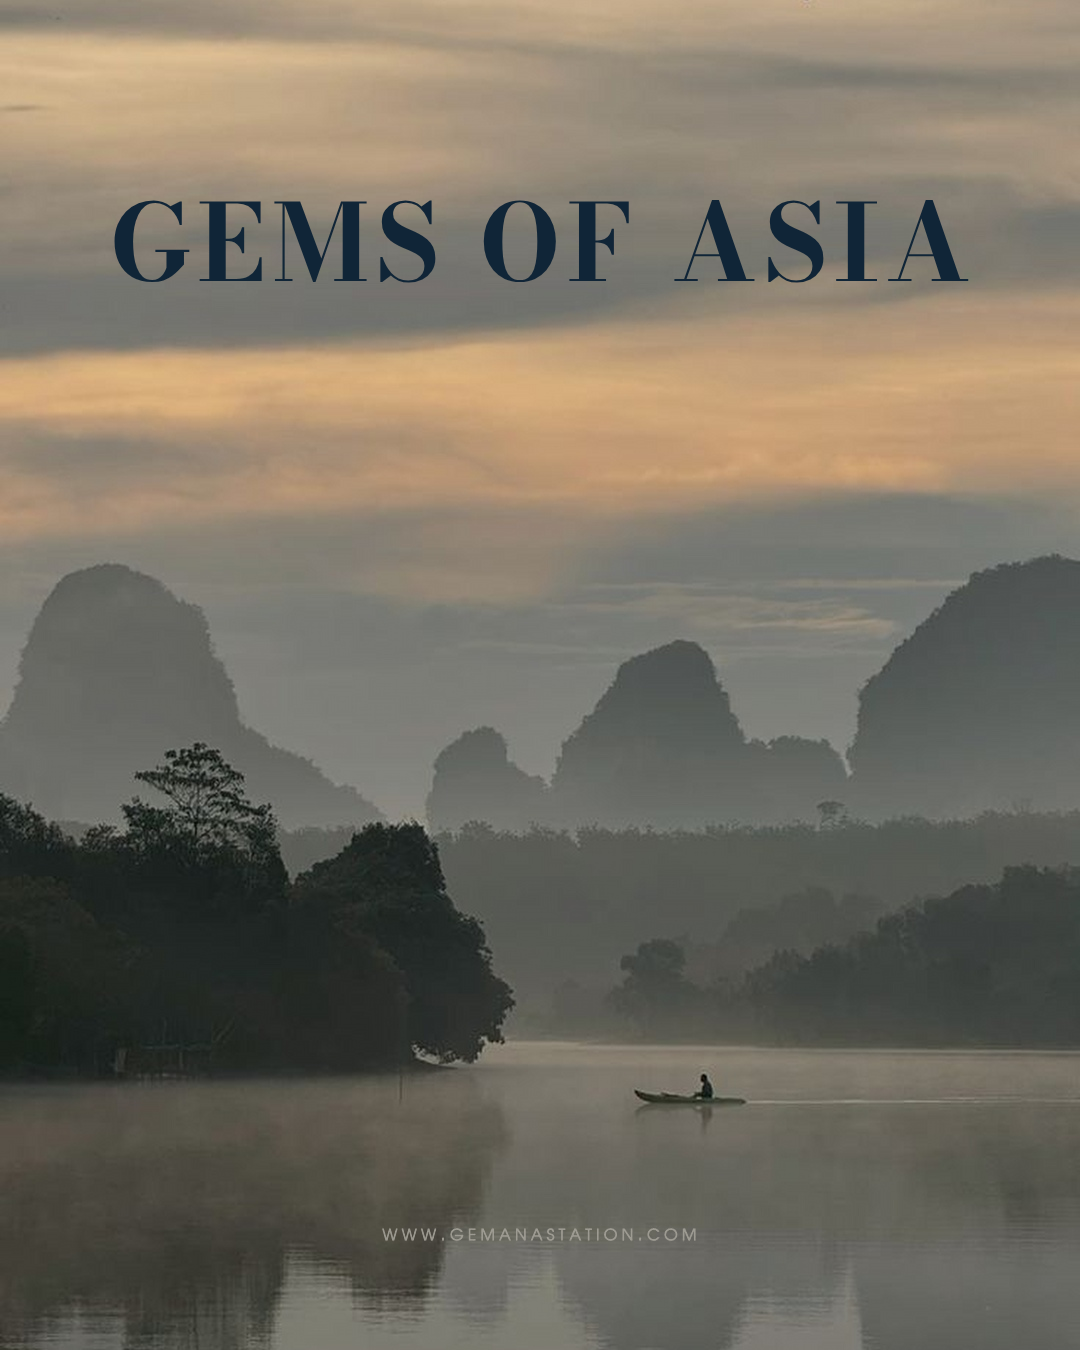
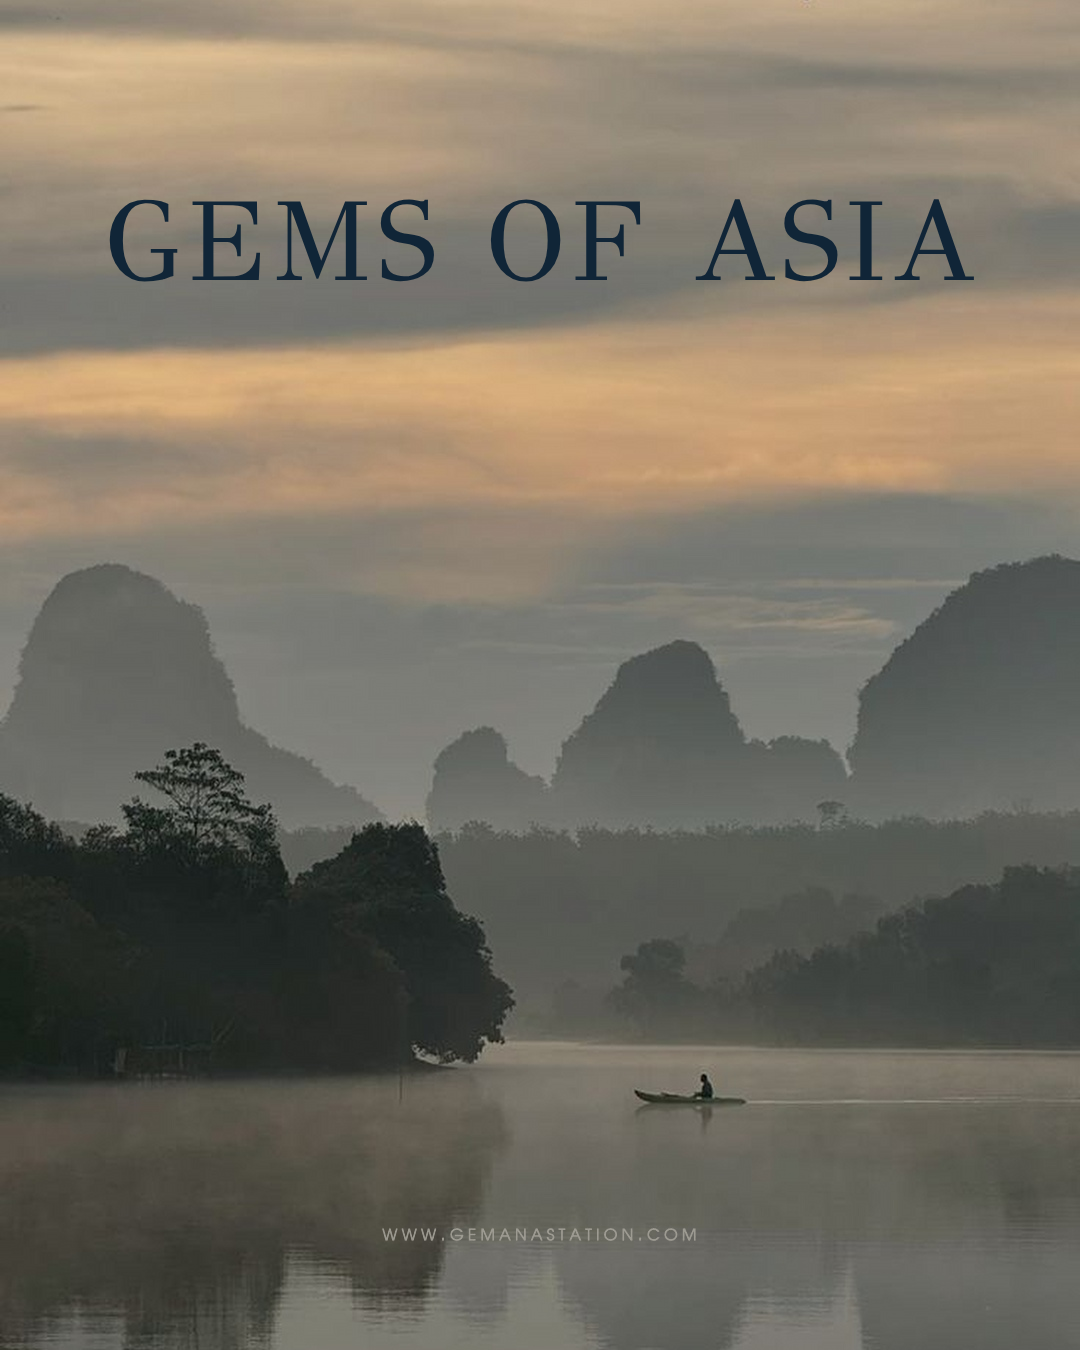
Gems of Asia: upright headings in GFS Didot (cover, map, regional titles, signature)
Claude-Session: https://claude.ai/code/session_01DPJpbdE4xE8Jg3JGMEEyZy

diff --git a/gem-anastation-reels/covers/covers.html b/gem-anastation-reels/covers/covers.html
@@ -5,14 +5,14 @@
      Export: NODE_PATH=$(npm root -g) node tools/export.mjs -->
 <html lang="en"><head><meta charset="utf-8"><title>Zine Covers</title>
 <style>
-  @font-face { font-family: "Didot Cover"; src: url(../founder/fonts/BodoniModa-Bold.ttf); font-weight: 700; }
+  @font-face { font-family: "Didot Cover"; src: url(../founder/fonts/GFSDidot-Regular.ttf); }   /* GFS Didot (regular only) */
   body { margin: 0; background: #d9d6d0; display: flex; gap: 40px; padding: 40px; width: max-content; }
   .cover { position: relative; width: 1080px; height: 1350px; overflow: hidden; }
   .cover > img.photo { display: block; width: 1080px; height: 1350px; }
   .title { position: absolute; left: 0; width: 1080px; text-align: center; white-space: nowrap;
-    top: 190px;                       /* → cap top at y = 200 */
-    font-family: "Didot Cover"; font-weight: 700; font-size: 106px; line-height: 1;
-    letter-spacing: .06em; text-indent: .06em;   /* indent balances the trailing space: optical centre */
+    top: 185px;                       /* → cap top at y = 200 */
+    font-family: "Didot Cover"; font-weight: 400; font-size: 114px; line-height: 1;
+    letter-spacing: .035em; text-indent: .035em;   /* indent balances the trailing space: optical centre */
     color: #102537; }
   .url { position: absolute; left: 375px; top: 1223px; width: 351px; height: 23px; }
 </style></head>

diff --git a/gem-anastation-reels/gems_of_asia/slide02.html b/gem-anastation-reels/gems_of_asia/slide02.html
@@ -2,6 +2,7 @@
 <!-- Generated by tools/build.mjs — edit the script, not this file. -->
 <html lang="en"><head><meta charset="utf-8"><title>Gemstone Map</title>
 <link rel="stylesheet" href="../founder/founder.css">
+<style>@font-face { font-family: "GFS Didot"; src: url(../founder/fonts/GFSDidot-Regular.ttf); }</style>
 <style>
   body { background: #d9d6d0; }
   .slide { width: 1080px; height: 1350px; background: #102537; position: relative; overflow: hidden; }
@@ -9,7 +10,7 @@
     font-family: "AvantGarde"; font-size: 17px; letter-spacing: .42em; text-indent: .42em;
     text-transform: uppercase; line-height: 1; color: #B4996C; }
   .title { position: absolute; left: 0; width: 1080px; top: 156px; text-align: center;
-    font-family: "Didot Title"; font-size: 58px; letter-spacing: .08em; text-indent: .08em;
+    font-family: "GFS Didot"; font-size: 58px; letter-spacing: .08em; text-indent: .08em;
     text-transform: uppercase; color: #E9E6DF; line-height: 1; }
   .label { position: absolute; font-family: "AvantGarde"; font-size: 20px; line-height: 1;
     letter-spacing: 0.12em; text-transform: uppercase; color: #BBA375; white-space: nowrap;

diff --git a/gem-anastation-reels/gems_of_asia/slide03.html b/gem-anastation-reels/gems_of_asia/slide03.html
@@ -2,6 +2,7 @@
 <!-- Generated by tools/build_region.mjs — edit the script, not this file. -->
 <html lang="en"><head><meta charset="utf-8"><title>Gems of Asia 03</title>
 <link rel="stylesheet" href="../founder/founder.css">
+<style>@font-face { font-family: "GFS Didot"; src: url(../founder/fonts/GFSDidot-Regular.ttf); }</style>
 <style>
   body { background: #d9d6d0; }
   .slide { width: 1080px; height: 1350px; background: #F3EEE5; position: relative; overflow: hidden; }
@@ -10,7 +11,7 @@
   /* legibility veil over the photo: darker on the left (title) and at the top */
   .veil { position: absolute; inset: 0;
     background: linear-gradient(90deg, rgba(16,37,55,.62) 0%, rgba(16,37,55,.40) 45%, rgba(16,37,55,.34) 100%); }
-  .title { position: absolute; left: 96px; top: 80px; font-family: "Didot Title"; color: #F4F1EA;
+  .title { position: absolute; left: 96px; top: 80px; font-family: "GFS Didot"; color: #F4F1EA;
     font-size: 58px; line-height: 1.06; letter-spacing: .05em; text-transform: uppercase; }
   .title .part { display: block; margin-top: 18px; font-family: "AvantGarde"; font-size: 18px;
     letter-spacing: .42em; color: #BBA375; }

diff --git a/gem-anastation-reels/gems_of_asia/slide04.html b/gem-anastation-reels/gems_of_asia/slide04.html
@@ -2,6 +2,7 @@
 <!-- Generated by tools/build_region.mjs — edit the script, not this file. -->
 <html lang="en"><head><meta charset="utf-8"><title>Gems of Asia 04</title>
 <link rel="stylesheet" href="../founder/founder.css">
+<style>@font-face { font-family: "GFS Didot"; src: url(../founder/fonts/GFSDidot-Regular.ttf); }</style>
 <style>
   body { background: #d9d6d0; }
   .slide { width: 1080px; height: 1350px; background: #F3EEE5; position: relative; overflow: hidden; }
@@ -10,7 +11,7 @@
   /* legibility veil over the photo: darker on the left (title) and at the top */
   .veil { position: absolute; inset: 0;
     background: linear-gradient(90deg, rgba(16,37,55,.62) 0%, rgba(16,37,55,.40) 45%, rgba(16,37,55,.34) 100%); }
-  .title { position: absolute; left: 96px; top: 80px; font-family: "Didot Title"; color: #F4F1EA;
+  .title { position: absolute; left: 96px; top: 80px; font-family: "GFS Didot"; color: #F4F1EA;
     font-size: 58px; line-height: 1.06; letter-spacing: .05em; text-transform: uppercase; }
   .title .part { display: block; margin-top: 18px; font-family: "AvantGarde"; font-size: 18px;
     letter-spacing: .42em; color: #BBA375; }

diff --git a/gem-anastation-reels/gems_of_asia/slide05.html b/gem-anastation-reels/gems_of_asia/slide05.html
@@ -2,6 +2,7 @@
 <!-- Generated by tools/build_region.mjs — edit the script, not this file. -->
 <html lang="en"><head><meta charset="utf-8"><title>Gems of Asia 05</title>
 <link rel="stylesheet" href="../founder/founder.css">
+<style>@font-face { font-family: "GFS Didot"; src: url(../founder/fonts/GFSDidot-Regular.ttf); }</style>
 <style>
   body { background: #d9d6d0; }
   .slide { width: 1080px; height: 1350px; background: #F3EEE5; position: relative; overflow: hidden; }
@@ -10,7 +11,7 @@
   /* legibility veil over the photo: darker on the left (title) and at the top */
   .veil { position: absolute; inset: 0;
     background: linear-gradient(90deg, rgba(16,37,55,.62) 0%, rgba(16,37,55,.40) 45%, rgba(16,37,55,.34) 100%); }
-  .title { position: absolute; left: 96px; top: 80px; font-family: "Didot Title"; color: #F4F1EA;
+  .title { position: absolute; left: 96px; top: 80px; font-family: "GFS Didot"; color: #F4F1EA;
     font-size: 58px; line-height: 1.06; letter-spacing: .05em; text-transform: uppercase; }
   .title .part { display: block; margin-top: 18px; font-family: "AvantGarde"; font-size: 18px;
     letter-spacing: .42em; color: #BBA375; }

diff --git a/gem-anastation-reels/gems_of_asia/slide06.html b/gem-anastation-reels/gems_of_asia/slide06.html
@@ -2,6 +2,7 @@
 <!-- Generated by tools/build_region.mjs — edit the script, not this file. -->
 <html lang="en"><head><meta charset="utf-8"><title>Gems of Asia 06</title>
 <link rel="stylesheet" href="../founder/founder.css">
+<style>@font-face { font-family: "GFS Didot"; src: url(../founder/fonts/GFSDidot-Regular.ttf); }</style>
 <style>
   body { background: #d9d6d0; }
   .slide { width: 1080px; height: 1350px; background: #F3EEE5; position: relative; overflow: hidden; }
@@ -10,7 +11,7 @@
   /* legibility veil over the photo: darker on the left (title) and at the top */
   .veil { position: absolute; inset: 0;
     background: linear-gradient(90deg, rgba(16,37,55,.62) 0%, rgba(16,37,55,.40) 45%, rgba(16,37,55,.34) 100%); }
-  .title { position: absolute; left: 96px; top: 80px; font-family: "Didot Title"; color: #F4F1EA;
+  .title { position: absolute; left: 96px; top: 80px; font-family: "GFS Didot"; color: #F4F1EA;
     font-size: 58px; line-height: 1.06; letter-spacing: .05em; text-transform: uppercase; }
   .title .part { display: block; margin-top: 18px; font-family: "AvantGarde"; font-size: 18px;
     letter-spacing: .42em; color: #BBA375; }

diff --git a/gem-anastation-reels/founders_note/note_gems-of-asia.html b/gem-anastation-reels/founders_note/note_gems-of-asia.html
@@ -2,6 +2,7 @@
 <!-- Generated by tools/build.mjs (gems-of-asia) — edit NOTES there, not this file. -->
 <html lang="en"><head><meta charset="utf-8"><title>Founder's Note</title>
 <link rel="stylesheet" href="../founder/founder.css">
+<style>@font-face { font-family: "GFS Didot"; src: url(../founder/fonts/GFSDidot-Regular.ttf); }</style>
 <style>
   :root { --navy: #102537; --teal: #1A4043; --gold2: #BBA375; }
   body { background: #d9d6d0; }
@@ -24,7 +25,7 @@
         font-size: 42px; line-height: 1.08; color: var(--teal); }
   .line { position: absolute; left: 0; top: 558px; width: 440px; font-family: "AvantGarde";
         font-size: 21px; line-height: 1.45; color: var(--navy); }
-  .name { position: absolute; left: 0; top: 712px; font-family: "Didot Title"; font-size: 30px;
+  .name { position: absolute; left: 0; top: 712px; font-family: "GFS Didot"; font-size: 30px;
         letter-spacing: .24em; color: var(--gold2); }
   .role { position: absolute; left: 0; top: 760px; font-family: "AvantGarde"; font-size: 13px;
         letter-spacing: .28em; text-transform: uppercase; color: var(--navy); opacity: .8; }

diff --git a/gem-anastation-reels/covers/README.md b/gem-anastation-reels/covers/README.md
@@ -7,8 +7,8 @@ panels, gradient plates, logo or rubric.
 | Element | Spec |
 |---|---|
 | Photo | full bleed, uniform scale to 1080 wide, vertical crop only (`tools/prepare.py`) |
-| Title | Didot Bold caps (stand-in: Bodoni Moda Bold), 106 px, tracking 0.06 em, one line, centred on x = 540 (optically: trailing tracking offset by text-indent) |
-| Title position | cap top y = 200, baseline ≈ y = 281 (CSS top 190 px, line-height 1) |
+| Title | GFS Didot caps, 114 px, tracking 0.035 em, one line, centred on x = 540 (optically: trailing tracking offset by text-indent) |
+| Title position | cap top y = 200, baseline ≈ y = 280 (CSS top 185 px, line-height 1) |
 | Title width | ≈ 850 px for GEMS OF ASIA; longer titles: lower the size until the line fits 888 px (96 px margins), never wrap |
 | Title colour | navy #102537 on light / mid-tone skies; on a dark sky use ivory #F3EEE5 |
 | Website line | WWW.GEMANASTATION.COM, the approved rendered line, text top y = 1228, x 382–695 (centred) |

diff --git a/gem-anastation-reels/carousel_gems_of_asia/README.md b/gem-anastation-reels/carousel_gems_of_asia/README.md
@@ -4,9 +4,10 @@
 Asia II · 05 South & Central Asia · 06 East Asia · 07 Founder's Note.
 Copies of the outputs of `covers/`, `gems_of_asia/` and `founders_note/`.
 
-Typography system (final pass): cover title Didot Bold caps 106 px; large
-titles on dark/photo backgrounds Didot Regular caps (58 px); large headings
+Typography system: upright Didot = GFS Didot (cover title 114 px, tracking
+0.035 em, cap top y 200; titles on dark/photo backgrounds 58 px; signature); large headings
 on ivory Didot Italic, regular weight, navy #102537 (regional 40 px,
 Founder's Note 66 px). Gem discs 22 % smaller than first approval
 (168 / 153 / 122 px for 3 / 4 / 5 gems), centred on the old disc line.
-Didot stand-in: Bodoni Moda (Regular / Italic / Bold) until licensed files arrive.
+GFS Didot has no italic, so the ivory italic headings stay in Bodoni Moda
+Italic (true italic) until licensed Didot Italic arrives.
